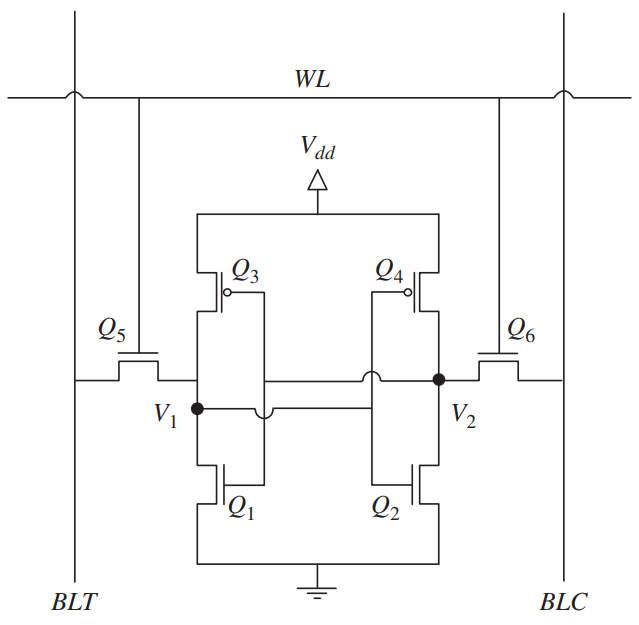
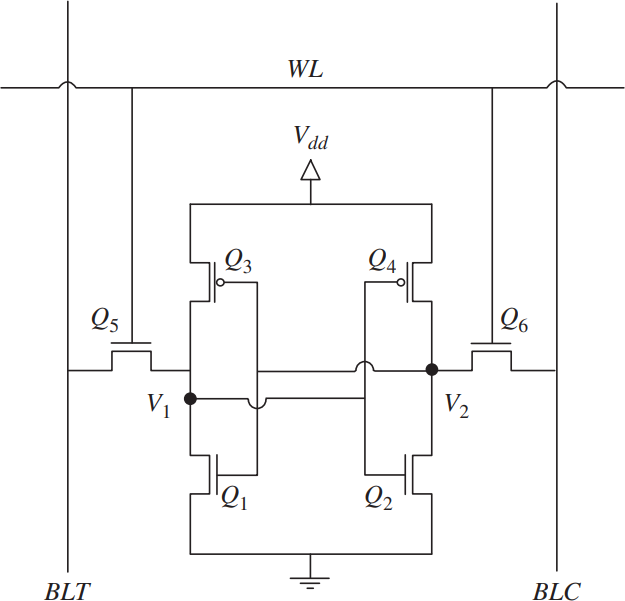
제목 변경, 도입부 수정, 이미지 최적화 및 트리밍
- 시리즈명: "AI 시대의 필수 소비재, 메모리 이해하기"
- 제목: 1편: HBF 이해하기
- 도입부 문장 자연스럽게 수정
- 본문 H1 중복 제거 (frontmatter title만 사용)
- 이미지 3장 PNG→JPG 변환 (4.7MB→400KB 등)
- 전체 이미지 투명 영역 트리밍 + 저자 수동 편집 반영

Changed region(s): [[0.0, 0.0, 1.0, 1.0]]

diff --git a/content/posts/what-is-hbf/index.en.md b/content/posts/what-is-hbf/index.en.md
@@ -1,7 +1,7 @@
 ---
 date: '2026-04-14T14:00:00+09:00'
 draft: true
-title: 'HBF Stocks Are Surging — But What Actually Is HBF? Understanding the Memory Hierarchy'
+title: 'Understanding Memory: Essential Commodity of the AI Era — Part 1: Understanding HBF'
 cover:
   image: ""
   alt: "HBF High Bandwidth Flash"
@@ -9,7 +9,7 @@ cover:
   relative: true
 authors: [Seungbin Shin]
 tags: ["HBF", "High Bandwidth Flash", "Memory", "NAND", "HBM", "SRAM", "DRAM", "TSV"]
-series: ["Memory in the AI Era"]
+series: ["Understanding Memory: Essential Commodity of the AI Era"]
 series_idx: 1
 categories: ["AI Hardware", "Semiconductor"]
 summary: "Why are there so many types of memory, and where does HBF fit in? From SRAM to HBF, we explore the physical principles behind the memory hierarchy and the technical architecture of HBF."
@@ -23,9 +23,7 @@ keywords: [
 ]
 ---
 
-# HBF Stocks Are Surging — But What Actually Is HBF?
-
-> This is Part 1 of the **Memory in the AI Era** series.
+> This is Part 1 of the **Understanding Memory: Essential Commodity of the AI Era** series.
 > Part 1: Understanding the Memory Hierarchy (this post)
 > Part 2: The Memory Wall and Industry Response (coming soon)
 > Part 3: The Inference Era — Synergy Between HBF and LPU (coming soon)
@@ -34,11 +32,10 @@ keywords: [
 
 Hello, I'm Seungbin Shin, an RTL Designer at HyperAccel.
 
-Recently, "HBF-related stocks" have been making headlines in the stock market.
-News outlets are attaching labels like "dream memory rivaling HBM" and "AI semiconductor revolution,"
-while related stocks continue to swing between sharp rallies and drops.
+Recently, "memory and semiconductor stocks" have been making headlines in the stock market.
+Lately, a new term — "HBF" — has started popping up, and people are asking "What even is that?" and "So should I buy it?"
 
-Yet surprisingly few people seem to actually know what **High Bandwidth Flash (HBF)** is.
+So what exactly is **High Bandwidth Flash (HBF)**?
 
 To understand HBF, you first need to be able to answer one question:
 
@@ -68,7 +65,7 @@ Faster, smaller memory sits closer to the processor, while slower, larger memory
 
 Now let's look at why each layer of memory has the characteristics it does, starting with the cell structure.
 
-![Memory hierarchy pyramid — faster, more expensive, and smaller toward the top](01-memory-hierarchy-pyramid.png)
+![Memory hierarchy pyramid — faster, more expensive, and smaller toward the top](01-memory-hierarchy-pyramid.jpg)
 
 ---
 
@@ -168,7 +165,7 @@ For workloads like AI that need to read massive amounts of data simultaneously, 
 The core idea is simple:
 stack DRAM dies vertically and place them right next to the processor on the same substrate.
 
-![HBM stack cross-section — DRAM dies stacked with TSV and placed alongside GPU on interposer](04-hbm-tsv-stack.png)
+![HBM stack cross-section — DRAM dies stacked with TSV and placed alongside GPU on interposer](04-hbm-tsv-stack.jpg)
 
 ### TSV: Vertical Wiring Through Silicon
 
@@ -302,7 +299,7 @@ what if we could fill this gap?
 
 ## HBF — Dressing NAND in HBM's Clothes
 
-![HBF architecture — NAND dies stacked with TSV, placed alongside accelerator on interposer](05-hbf-architecture.png)
+![HBF architecture — NAND dies stacked with TSV, placed alongside accelerator on interposer](05-hbf-architecture.jpg)
 
 ### Core Idea: Familiar Cells, New Packaging
 
